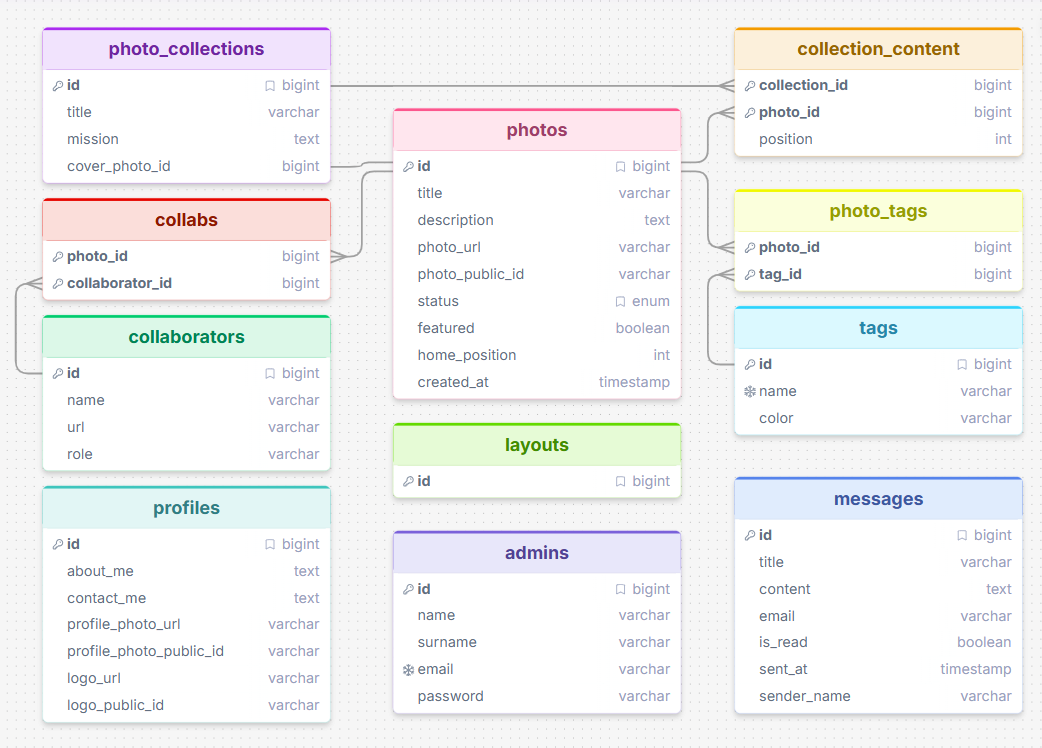
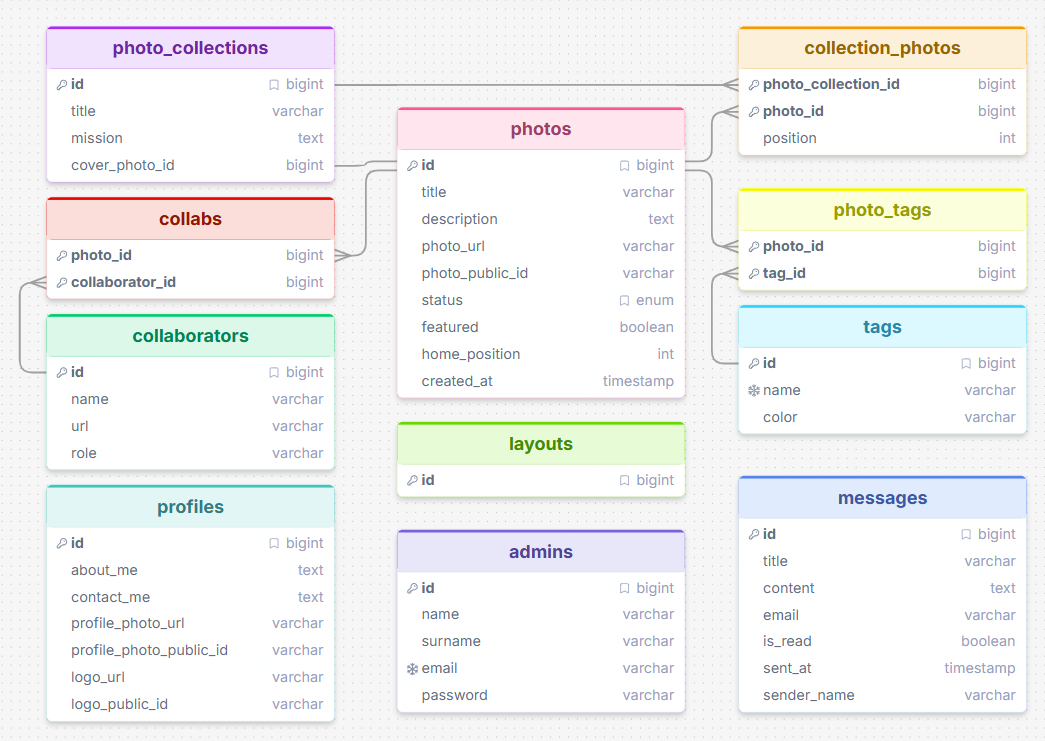
V4__ Collection_photos, CollectionPhoto, relation N:N

diff --git a/backend/src/main/java/com/antonio_formisano/portfolio/entities/CollectionPhoto.java b/backend/src/main/java/com/antonio_formisano/portfolio/entities/CollectionPhoto.java
@@ -1,0 +1,30 @@
+package com.antonio_formisano.portfolio.entities;
+
+import jakarta.persistence.*;
+import lombok.Getter;
+import lombok.NoArgsConstructor;
+import lombok.Setter;
+
+@Getter
+@Setter
+@NoArgsConstructor
+@Entity
+@Table(name = "collection_photos")
+public class CollectionPhoto {
+
+    @EmbeddedId
+    private CollectionPhotoId id = new CollectionPhotoId();
+
+    @ManyToOne
+    @MapsId("photoCollectionId")
+    @JoinColumn(name = "photo_collection_id", nullable = false)
+    private PhotoCollection photoCollection;
+
+    @ManyToOne
+    @MapsId("photoId")
+    @JoinColumn(name = "photo_id", nullable = false)
+    private Photo photo;
+
+    @Column(nullable = false)
+    private int position;
+}

diff --git a/backend/src/main/java/com/antonio_formisano/portfolio/entities/CollectionPhotoId.java b/backend/src/main/java/com/antonio_formisano/portfolio/entities/CollectionPhotoId.java
@@ -1,0 +1,17 @@
+package com.antonio_formisano.portfolio.entities;
+
+import jakarta.persistence.Embeddable;
+import lombok.*;
+
+import java.io.Serializable;
+
+@Embeddable
+@Setter
+@Getter
+@NoArgsConstructor
+@AllArgsConstructor
+@EqualsAndHashCode
+public class CollectionPhotoId implements Serializable {
+    private Long photoCollectionId;
+    private Long photoId;
+}
